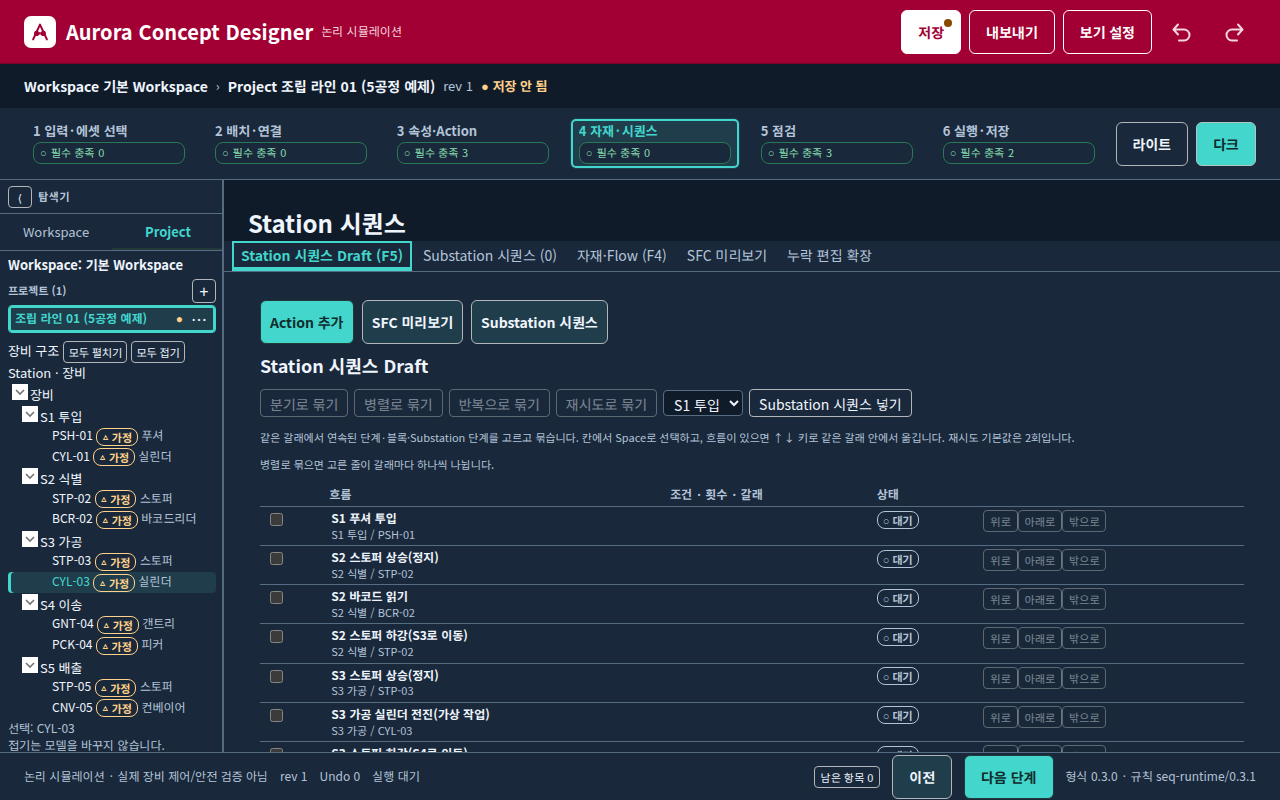
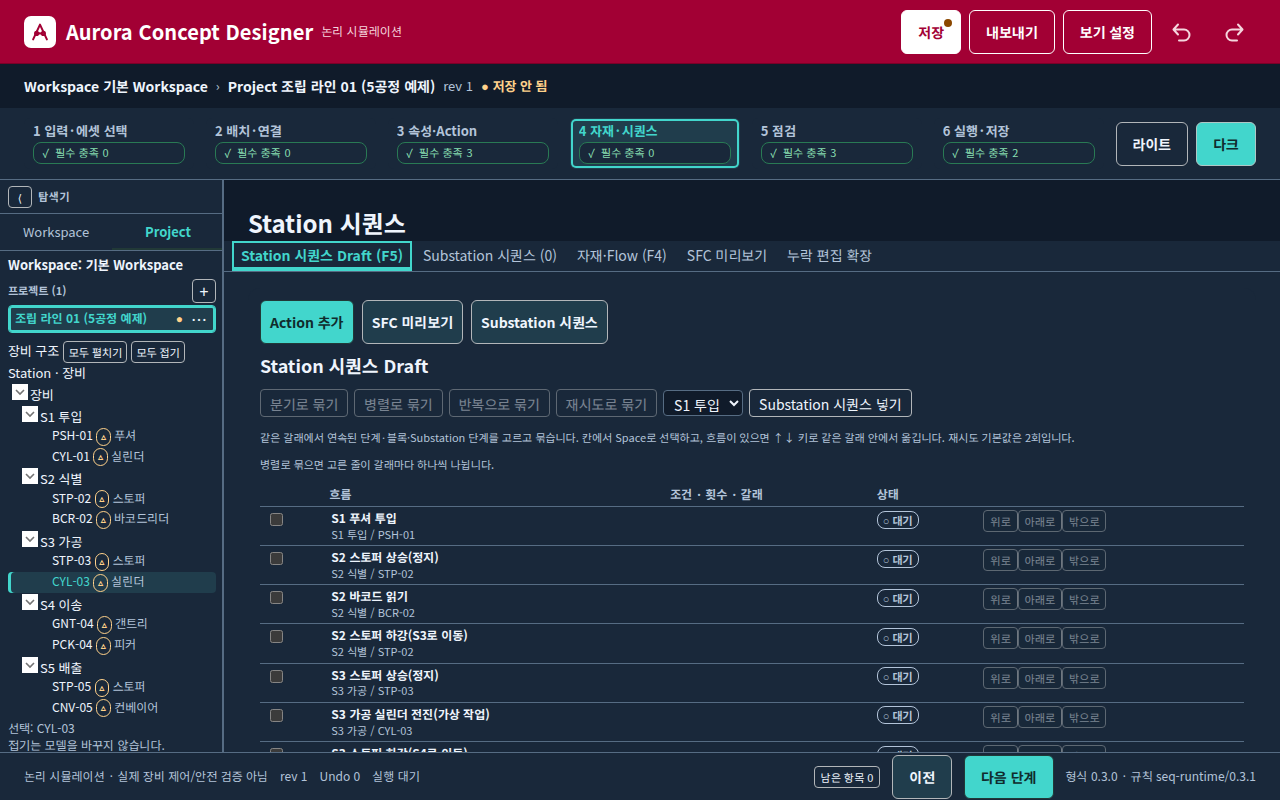
TURN-039: 단계 바 기호를 상태와 맞추고 트리는 기호만 보인다
필수 충족·확인됨은 완료(✓), 필수 누락은 오류(!), 재확인 필요는 미정(?)이다. 트리 칩은 22px 기호만 두고 낱말은 접근성 이름에 둔다.

diff --git a/tests/ui-turn039.test.tsx b/tests/ui-turn039.test.tsx
@@ -10,7 +10,7 @@ import { App } from '../src/ui/App';
 import { StatusMark } from '../src/ui/StatusMark';
 import {
   ITEM_LEVEL_STATUS, STATUS, STATUS_COLOR, STATUS_KEYS, STATUS_SURFACES,
-  exportStatusMark, gapJudgementMark, phaseShape, stationShape, statusCssVars,
+  WIZARD_BADGE_STATUS, exportStatusMark, gapJudgementMark, phaseShape, stationShape, statusCssVars,
 } from '../src/ui/status';
 
 (globalThis as { IS_REACT_ACT_ENVIRONMENT?: boolean }).IS_REACT_ACT_ENVIRONMENT = true;
@@ -126,10 +126,29 @@ describe('TURN-039 status tokens', () => {
 
     const u = await mount();
     await u.click(u.btn('시작하기'));
+    const badges = [...u.el.querySelectorAll<HTMLElement>('.stepper [data-step-badge]')];
+    expect(badges.length).toBe(6);
+    for (const badge of badges) {
+      const key = badge.getAttribute('data-status') as keyof typeof STATUS;
+      expect(STATUS_KEYS).toContain(key);
+      expect(badge.querySelector('[aria-hidden="true"]')!.textContent).toBe(STATUS[key].mark);
+      expect(badge.className).toContain(`status-${key}`);
+    }
+    expect(WIZARD_BADGE_STATUS.ready).toBe('done');
+    expect(WIZARD_BADGE_STATUS.confirmed).toBe('done');
+    expect(WIZARD_BADGE_STATUS.blocked).toBe('error');
+    expect(WIZARD_BADGE_STATUS.recheck).toBe('undetermined');
+
     const treeAssumed = marks(u.el.querySelector('.tree')!, 'assumption');
     expect(treeAssumed.length).toBeGreaterThan(0);
+    expect(treeAssumed[0].className).toContain('is-compact');
     expect(treeAssumed[0].querySelector('.status-sym')!.textContent).toBe(STATUS.assumption.mark);
-    expect(treeAssumed[0].querySelector('.status-word')!.textContent).toBe('가정');
+    expect(treeAssumed[0].getAttribute('aria-label')).toBe('가정');
+    expect(treeAssumed[0].getAttribute('title')).toBe('가정');
+    const bcr = u.el.querySelector('[data-tree-id="BCR-02"]')!;
+    expect(bcr.textContent).toContain('바코드리더');
+    const css = readFileSync('src/ui/styles.css', 'utf8');
+    expect(css).toMatch(/\.tree \.status-mark\.is-compact \{[^}]*max-width:\s*22px/);
 
     await u.click(u.el.querySelector('[data-step-badge="attributes"]')!);
     const list = u.el.querySelector('.itemspop')!;

diff --git a/src/ui/wizard.ts b/src/ui/wizard.ts
@@ -8,6 +8,7 @@ import type { Project } from '../model/types';
 import { checkRunReadiness } from '../model/validate';
 import type { RuntimeState } from '../runtime/engine';
 import { runStatusLabel } from './labels';
+import { wizardBadgeMark } from './status';
 
 export type StepId = 'library' | 'canvas' | 'attributes' | 'sequence' | 'check' | 'run';
 export const STEPS: { id: StepId; no: number; label: string; workspace: string; goal: string }[] = [
@@ -162,9 +163,9 @@ export function evaluateSteps(p: Project, ctx: EvalContext): Record<StepId, Step
   return out;
 }
 
-/** Visible status word. The mark is drawn with the word so the badge is not color alone. */
+/** Visible status word. The mark comes from the same status as the badge color. */
 export const BADGE_WORD = { ready: '필수 충족', blocked: '필수 누락', recheck: '재확인 필요', confirmed: '확인됨' } as const;
-export const BADGE_MARK = { ready: '○', blocked: '×', recheck: '△', confirmed: '✓' } as const;
+export const BADGE_MARK = { ready: wizardBadgeMark('ready'), blocked: wizardBadgeMark('blocked'), recheck: wizardBadgeMark('recheck'), confirmed: wizardBadgeMark('confirmed') } as const;
 export const BADGE_TONE = { ready: 'ok', blocked: 'err', recheck: 'warn', confirmed: 'ok' } as const;
 
 /** step status for the stepper: 'ready' | 'blocked' | 'recheck' (confirmed earlier but dependency data changed) */

diff --git a/src/ui/status.ts b/src/ui/status.ts
@@ -84,13 +84,24 @@ export function stationShape(status: string | null | undefined): { status: Statu
   return { status: key, word };
 }
 
-/** TURN-038 step-bar words stay. The ink comes from the nearest status. */
+/**
+ * Step-bar badge shape. The words stay in `BADGE_WORD`.
+ * 필수 충족 · 확인됨 use 완료, 필수 누락 uses 오류, 재확인 필요 uses 미정.
+ * The mark is `STATUS[this].mark`, so the symbol and the color are the same status.
+ */
 export const WIZARD_BADGE_STATUS = {
   ready: 'done',
   confirmed: 'done',
   blocked: 'error',
   recheck: 'undetermined',
 } as const satisfies Record<string, StatusKey>;
+
+export type WizardBadge = keyof typeof WIZARD_BADGE_STATUS;
+
+/** Mark for a step-bar badge. Same glyph as the status its color comes from. */
+export function wizardBadgeMark(badge: WizardBadge): string {
+  return STATUS[WIZARD_BADGE_STATUS[badge]].mark;
+}
 
 /** Remaining-item chip. 가정값 존재 is shown as 가정 so it matches the other screens. */
 export const ITEM_LEVEL_STATUS: Record<'missing' | 'assumption' | 'undetermined' | 'optional' | 'human', { status: StatusKey; word: string }> = {

diff --git a/src/ui/ProjectTree.tsx b/src/ui/ProjectTree.tsx
@@ -84,7 +84,7 @@ export function ProjectTree({ p, selection, collapsed, onCollapsedChange, onPick
                 return <div key={d} role="treeitem" tabIndex={0} data-tree-id={d} aria-level={3} aria-selected={dsel} className={`tnode ${dsel ? 'sel' : ''}`}
                   style={{ paddingLeft: 44, fontSize: 12 }} onClick={(e) => own(e, () => onPick(d))}
                   onKeyDown={(e) => onKey(e, d, { expandable: false, open: false, parent: u.id, select: () => onPick(d) })}>
-                  {devName(p, d)} {statusOf?.[d] && <StatusMark status={statusOf[d]} />} <span className="muted">{findAsset(p.devices.find((x) => x.id === d)?.kind ?? '')?.name ?? '정의 없음'}</span></div>;
+                  {devName(p, d)} {statusOf?.[d] && <StatusMark status={statusOf[d]} compact />} <span className="muted">{findAsset(p.devices.find((x) => x.id === d)?.kind ?? '')?.name ?? '정의 없음'}</span></div>;
               })}
             </div>}
           </div>;

diff --git a/src/ui/styles.css b/src/ui/styles.css
@@ -58,6 +58,7 @@ input.num { width: 76px; font-family: var(--mono); text-align: right; }
 .status-undetermined { color: var(--status-undetermined); }
 .status-assumption { color: var(--status-assumption); }
 .status-mark.is-compact .status-word { position: absolute; width: 1px; height: 1px; padding: 0; margin: -1px; overflow: hidden; clip: rect(0, 0, 0, 0); white-space: nowrap; border: 0; }
+.tree .status-mark.is-compact { max-width: 22px; padding: 0 3px; overflow: hidden; }
 button.st-badge.status-done { color: var(--status-done); border-color: var(--status-done); }
 button.st-badge.status-error { color: var(--status-error); border-color: var(--status-error); }
 button.st-badge.status-undetermined { color: var(--status-undetermined); border-color: var(--status-undetermined); }
